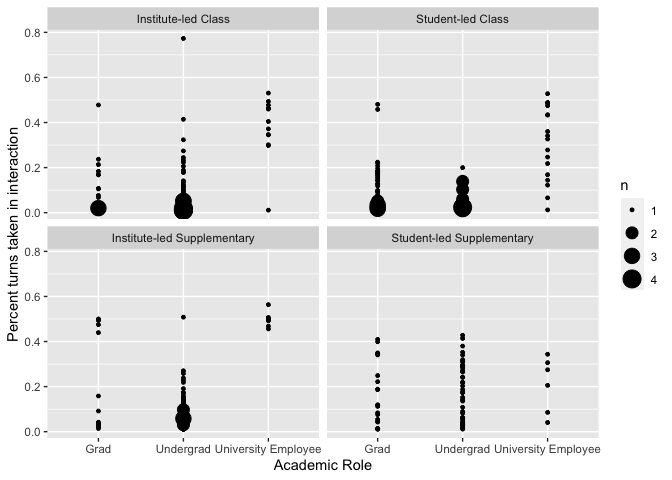
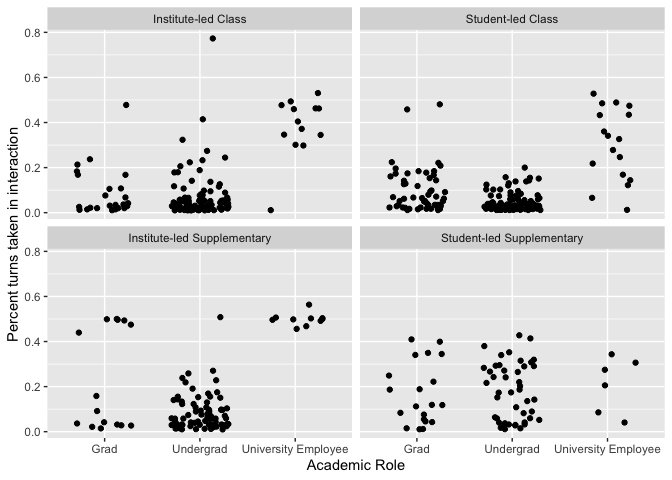
Changing count plots to jitter plots

diff --git a/data_pipeline.md b/data_pipeline.md
@@ -589,8 +589,8 @@ micase_turn_analysis %>%
   filter(academic_role != "Visitor/Other", academic_role != "Unknown", speech_event != "Academic Event") %>% 
   #creating plot with 'academic_role' on the x-axis and percent_turns_contributed on the y-axis
   ggplot(aes(x = academic_role, y = percent_turns_contributed)) + 
-  #specifying plot as geom_count()
-  geom_count() +
+  #specifying plot as geom_jitter() with a width of .3
+  geom_jitter(width = .3) +
   #creating facets for each speech event and setting the direction to vertical
   facet_wrap(vars(speech_event), dir="v") +
   #changing axis labels to be more informative
@@ -817,9 +817,9 @@ micase_word_analysis %>%
   #filtering out speakers with visitor roles and unknown roles, and presentations
   filter(academic_role != "Visitor/Other", academic_role != "Unknown", speech_event != "Academic Event") %>% 
   #creating plot with 'academic_role' on the x-axis and percent_turns_contributed on the y-axis
-  ggplot(aes(x = academic_role, y = percent_words_contributed)) + 
-  #specifying plot as geom_count()
-  geom_count() +
+  ggplot(aes(x = academic_role, y = percent_words_contributed,  group = academic_role)) + 
+  #specifying plot as geom_jitter() with a width of .3
+  geom_jitter(width = .3) +
   #creating facets for each speech event and setting the direction to vertical
   facet_wrap(vars(speech_event), dir="v") +
   #changing axis labels to be nicer
